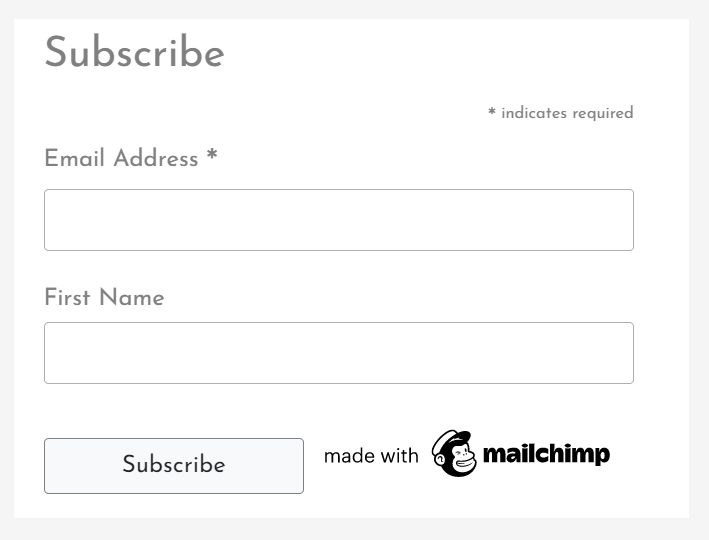
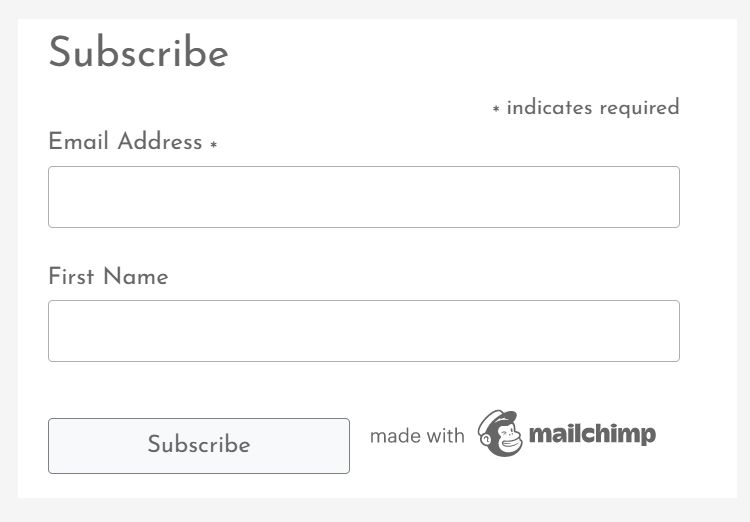
Expand social media marketing in Readme

diff --git a/templates/base.html b/templates/base.html
@@ -10,8 +10,14 @@
             <meta charset="utf-8">
             <meta name="viewport" content="width=device-width, initial-scale=1.0">
         {% endblock %}
-
+        
         {% block extra_meta %}
+            <!-- Marketing meta tags -->
+            <meta name="description" content="Monika Curto Fuentes, Female Polish Artist Painter in Germany, Online art gallery and shop">
+            <meta name="keywords" 
+                content="monika curto fuentes, polish girl painting, polish artist, paintings online, polish painter, 
+                craft contemporary, polish female artist, contemporary art exhibitions, gallery of contemporary art, 
+                flower paintings for sale, modern art and contemporary art, landscape art for sale, european art painting">
         {% endblock %}
 
         {% block corecss %}
@@ -55,11 +61,6 @@
 
         <title>Monika Curto Fuentes {% block extra_title%}{% endblock %}</title>
         <link rel="canonical" href="{{ request.build_absolute_uri }}">
-        <meta name="description" content="Monika Curto Fuentes, Female Polish Artist Painter in Germany, Online art gallery and shop">
-        <meta name="keywords" 
-            content="monika curto fuentes, polish girl painting, polish artist, paintings online, polish painter, 
-            craft contemporary, polish female artist, contemporary art exhibitions, gallery of contemporary art, 
-            flower paintings for sale, modern art and contemporary art, landscape art for sale, european art painting">
         
     </head>
 
@@ -198,6 +199,11 @@
                             <h3>Social</h3>
                             <p class="h6">Keep up to date also via:</p>
                             <p>
+                                <a href="https://www.facebook.com/profile.php?id=100090875239254" target="_blank" rel="noopener" aria-label="Visit my Facebook webpage (opens in new window)">
+                                    <i class="fab fa-facebook-square mr-1"></i> Facebook
+                                </a>
+                            </p>
+                            <p>
                                 <a href="https://www.instagram.com/polishgirlpainting/" target="_blank" rel="noopener" aria-label="Visit my Instagram webpage (opens in new window)">
                                     <i class="fab fa-instagram-square mr-1"></i> Instagram
                                 </a>
@@ -205,11 +211,6 @@
                             <p>
                                 <a href="https://www.youtube.com" target="_blank" rel="noopener" aria-label="Visit my YouTube webpage (opens in new window)">
                                     <i class="fa fa-youtube mr-1"></i> Youtube
-                                </a>
-                            </p>
-                            <p>
-                                <a href="https://www.facebook.com/profile.php?id=100090875239254" target="_blank" rel="noopener" aria-label="Visit my Facebook webpage (opens in new window)">
-                                    <i class="fab fa-facebook-square mr-1"></i> Facebook
                                 </a>
                             </p>
                         </div>

diff --git a/README.md b/README.md
@@ -821,9 +821,9 @@ Access to navbar features:
 
 ### **Feature 2: Footer**
 The footer is displayed below all other content. Short information about the project and links to company's social media are placed there. Links are available to all users, open in a different tab for easy navigation and contain: 
+- Facebook.
 - Instagram,
 - YouTube,
-- Facebook.
 
 <br>
 Click to view image:
@@ -1531,6 +1531,15 @@ All three modules complement each other in terms of content and have the potenti
 
 Footer always present at the bottom of the website encourages users to engage in alternative means of contact via social media (Instagram, Youtube and Facebook). 
 
+<details>
+<summary>Links to social media in Footer</summary>
+
+![screenshot of Facebook account 1](readme/docs/images/marketing/footer_social.jpg)
+</details>
+<br>
+
+*Facebook*
+
 Because of Facebook's reach and amount of users it can be a valuable marketing tool for this project. An example business Facebook account has been open and is available under this [link](https://www.facebook.com/profile.php?id=100090875239254) at the time of writing this document. Below screenshots from this account can be found. 
 
 Main page lets the owner to present information to a wide audience and utilize Facebook's paid marketing tools if such decision arises.
@@ -1565,9 +1574,17 @@ Dashboard details example
 </details>
 <br>
 
+Note: While the artist's Facebook account presented above was created as part of the Marketing Strategy in this project, the Footer on this site also refers to the oryginal artist's Instagram profile. The Instagram profile is not part of this project and was not contributed to by the author of this document. 
+
 **Email marketing**
 
 Also in the footer a short form giving users a possibility to subscribe to a newsletter has been placed. This provides the owner with additional marketing tools at her disposal, e.g. letting users know about new items in the Gallery, important events or promotions via email and ongoing analysis of newsletter signups. Newsletter subscription is managed via [MailChimp](https://mailchimp.com/) service. 
+
+<details>
+<summary>Newsletter form</summary>
+
+![screenshot of newsletter subcription1](readme/docs/images/marketing/footer_newsletter_form.jpg)
+</details>
 
 <details>
 <summary>Subscription confirmation</summary>
@@ -1869,6 +1886,8 @@ ___
 
 ### Graphical content
 - [Monika Curto Fuentes](https://www.instagram.com/polishgirlpainting/) - graphical representations of original art collection used for building this site.
+
+    Note: Footer on this site is referring to the oryginal artist's Instagram profile. This profile is not part of this project. 
 - [Nicepng](https://www.nicepng.com) - favicon.
 - [Coolors](https://coolors.co) - colour palette creation.
 - [Font Awesome](https://fontawesome.com/) - sourcing icons.

diff --git a/readme/docs/deployment.md b/readme/docs/deployment.md
@@ -32,7 +32,7 @@ Project setup was conducted in the following steps:
 
     ![screenshot](./images/deployment/github/github_create_repository_gitpod.jpg)
     </details>
-4. Once Gitpod workspace is created install Django by writing the command in Terminal. Django in version 3.2 was used as is the LTS (Long Term Support) version and thus was preferable to use over the currently newest Django 4.
+4. Once Gitpod workspace is created install Django by writing the command in Terminal. Django 3.2 was used as it is the LTS (Long Term Support) version and thus preferable over the currently newest Django 4.
     ```
     pip3 install Django==3.2
     ```
@@ -110,7 +110,7 @@ Steps for cloning repository:
 5. In Git Bash change working directory to the desired destination for the clone,
 6. Type "git clone", paste URL for SSH method from the clipboard and press Enter.
 
-During part of production process both [GitPod](https://gitpod.io/) and the program [Visual Studio Code](https://code.visualstudio.com) were used. The latter was not strictly necessary but provided smoother production in times of poor Internet connection and provided extra level of assurance in form of local copy of all files.
+During part of production process both [GitPod](https://gitpod.io/) and the program [Visual Studio Code](https://code.visualstudio.com) were used. The latter was not strictly necessary but provided smoother production in times of poor Internet connection and provided extra level of assurance in form of a local copy of all files.
 
 
 ## ElephantSQL
